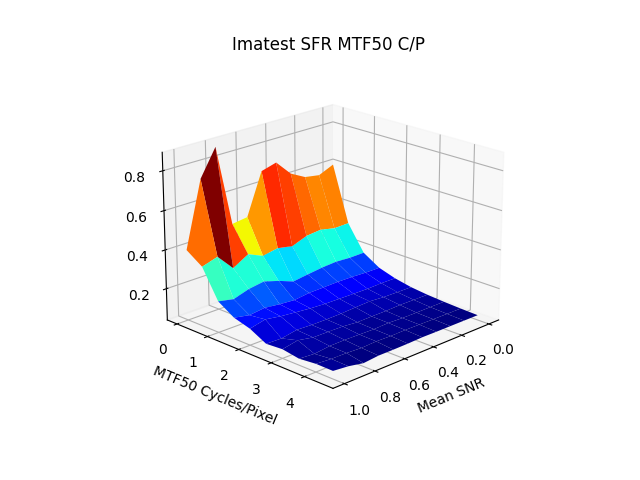
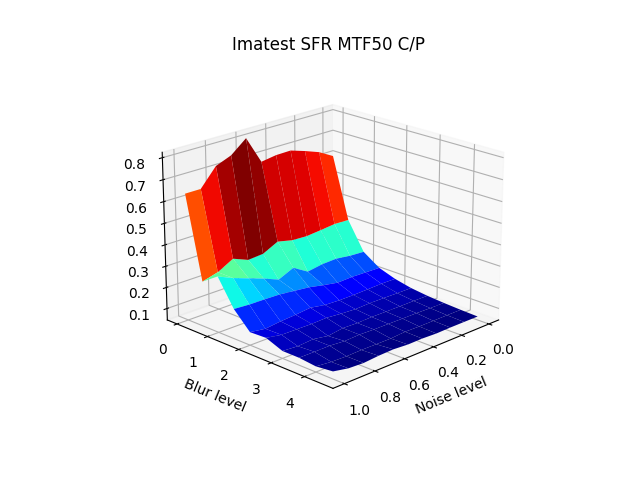
Latest improvements & plots

diff --git a/src/cviq.py b/src/cviq.py
@@ -163,6 +163,8 @@ def image_simulation():
             blur_index += 1
                 
         X_arbitrary, Y_arbitrary = np.meshgrid(arbitrary_noise_levels, arbitrary_blur_levels)
+        X_label_arbitrary = "Noise level"
+        Y_label_arbitrary = "Blur level"
         
         if imatest_enabled:         # key into SNR and MTF50 as key axes if we can calcualte it with Imatest
             X_objective, Y_objective = np.meshgrid(objective_noise_levels, objective_blur_levels)
@@ -173,15 +175,15 @@ def image_simulation():
         else:                       # without objective image quality analysis we are made to depend on arbitrary values
             X = X_arbitrary
             Y = Y_arbitrary
-            X_label = "Noise level"
-            Y_label = "Blur level"
+            X_label = X_label_arbitrary
+            Y_label = Y_label_arbitrary
 
         #surface_plot_data(X, Y, np.array(face_data), xlabel="")
         if simulation['type'] == 'facial':
             surface_plot_data(X, Y, np.array(face_data), title="Faces Found", xlabel=X_label, ylabel=Y_label, azimuth=-123)
         elif simulation['type'] == 'imatest':           # Use arbitrary units for ploting to see relation between arbitrary and objective
-            surface_plot_data(X_arbitrary, Y_arbitrary, np.array(snr_data), title="Imatest SNR", xlabel=X_label, ylabel=Y_label)
-            surface_plot_data(X_arbitrary, Y_arbitrary, np.array(mtf_data), title="Imatest SFR MTF50 C/P", xlabel=X_label, ylabel=Y_label)
+            surface_plot_data(X_arbitrary, Y_arbitrary, np.array(snr_data), title="Imatest SNR", xlabel=X_label_arbitrary, ylabel=Y_label_arbitrary)
+            surface_plot_data(X_arbitrary, Y_arbitrary, np.array(mtf_data), title="Imatest SFR MTF50 C/P", xlabel=X_label_arbitrary, ylabel=Y_label_arbitrary)
         elif simulation['type'] == 'qrcode':
             surface_plot_data(X, Y, np.array(qrcode_data), title="QR Code Recongnition Success", xlabel=X_label, ylabel=Y_label, azimuth=-123)
         elif simulation['type'] == 'text':

diff --git a/README.md b/README.md
@@ -1,14 +1,13 @@
+# Correlating the Performance of Computer Vision Algorithms with Objective Image Quality Metrics
 
+See  https://www.imatest.com/2022/06/correlating-the-performance-of-computer-vision-algorithms-with-objective-image-quality-metrics
 
 Configuring
 
 pip install opencv-python pytesseract wand numpy
 
-
-Pgmagic
-https://pypi.org/project/pgmagick/
-
-Ubuntu
-Windows binaries http://www.lfd.uci.edu/~gohlke/pythonlibs/#pgmagick
-
 tesseract binaries can be found at https://digi.bib.uni-mannheim.de/tesseract/
+
+ImageMagick can be installed at https://imagemagick.org/
+
+This project uses [Imatest IT](https://www.imatest.com/products/imatest-it/) to produce objective image quality metrics.  You can obtain a [free trial of Imatest IT here](https://www.imatest.com/free-trial/)
